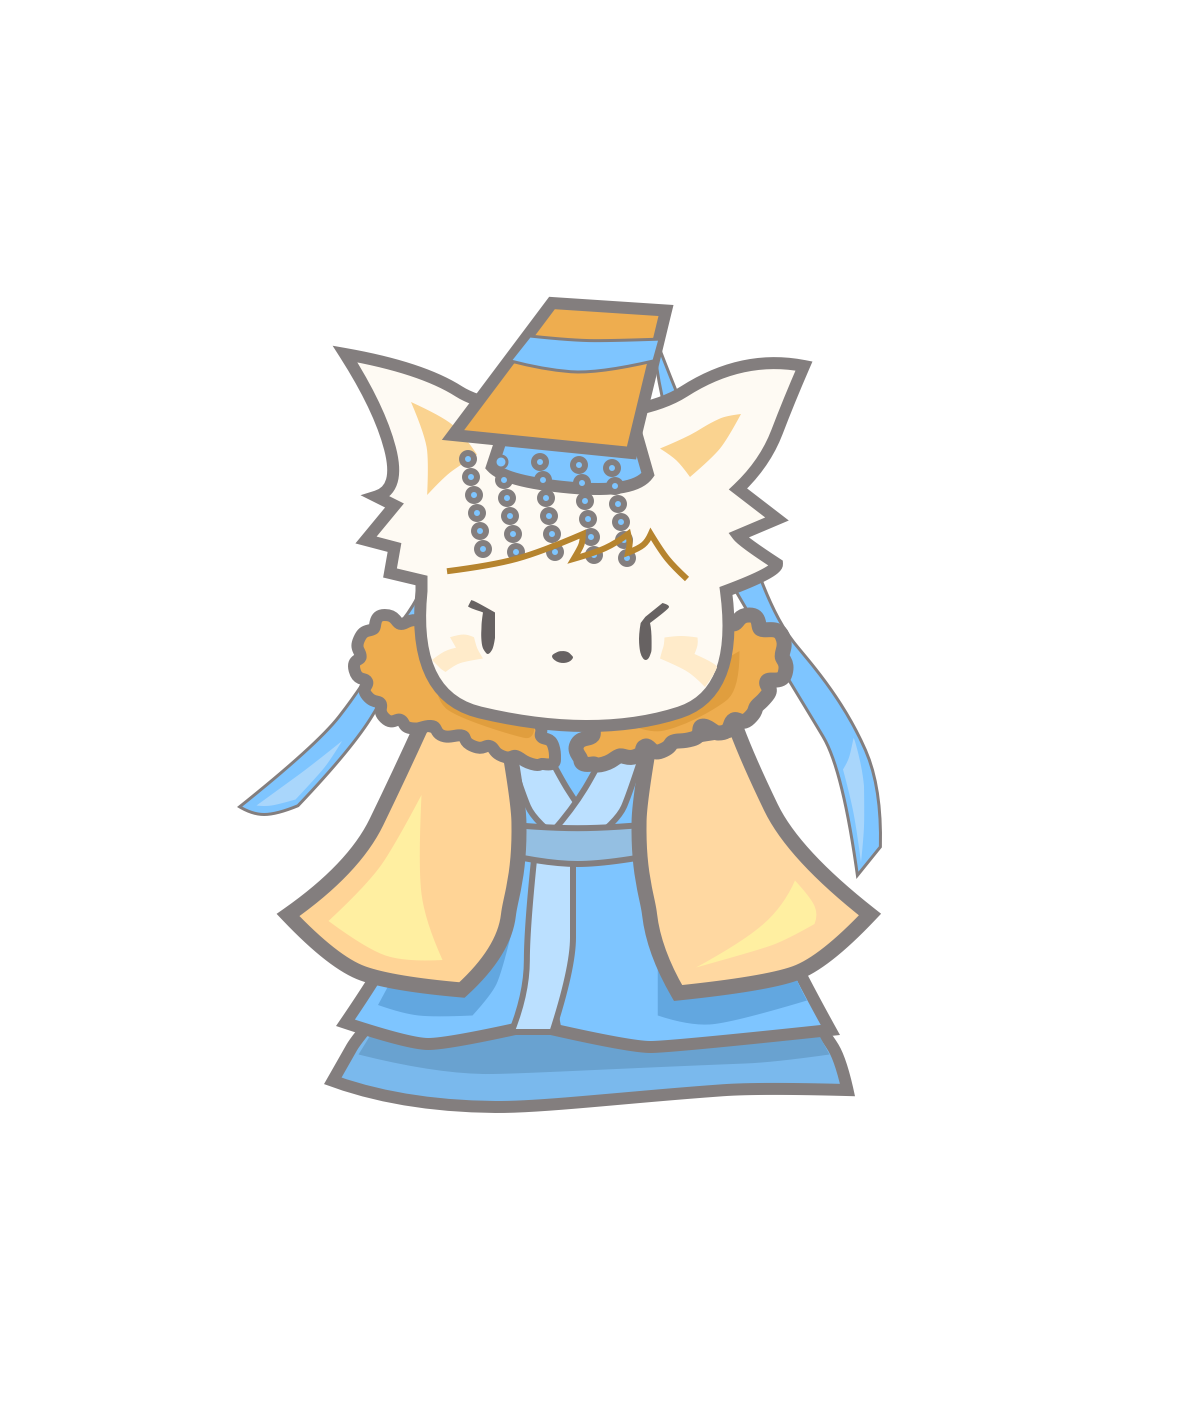
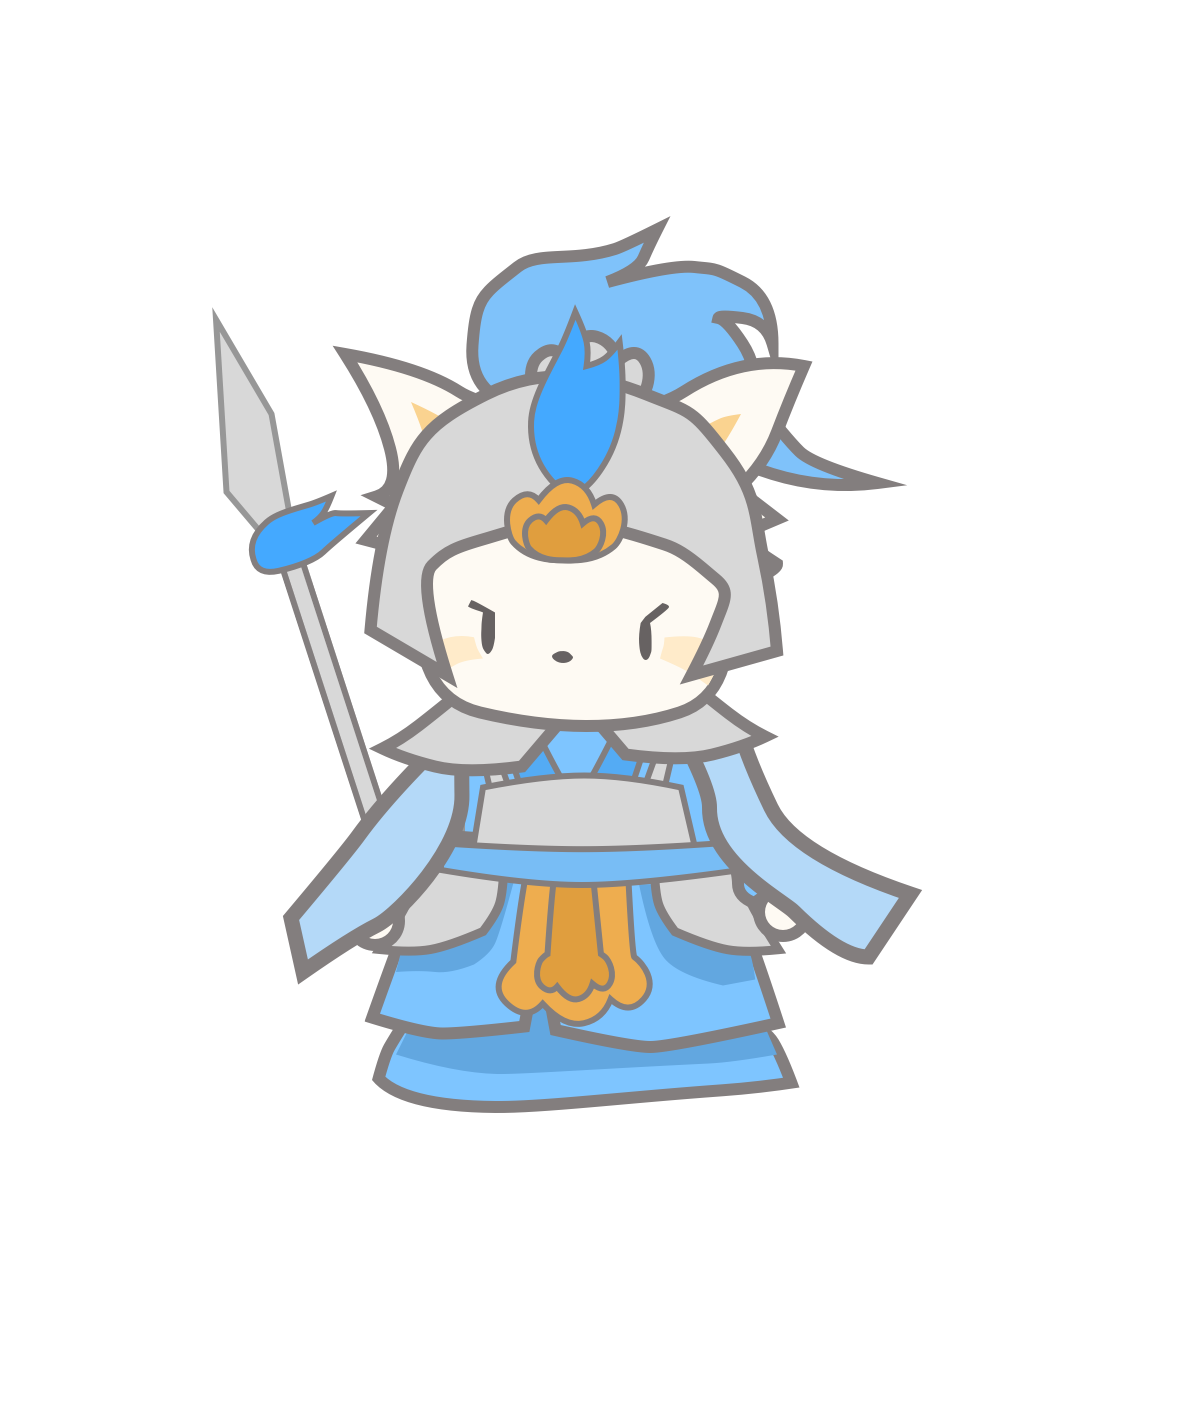
feat: 新增棋子

Changed region(s): [[0.1832, 0.1541, 0.7939, 0.7703]]

diff --git a/miniprogram/js/runtime/chess.js b/miniprogram/js/runtime/chess.js
@@ -15,8 +15,7 @@ const getChessSrc = (status, site, role) => {
     return 'images/chess-init.png';
   }
   if (status === CHESS_STATUS.TURNED) {
-    // return `images/chess-${site}-level-${role}`;
-    return `images/chess-${site}-level-${6}.png`;
+    return `images/chess-${site}-level-${role}.png`;
   }
 
   return 'images/chess-init.png';
